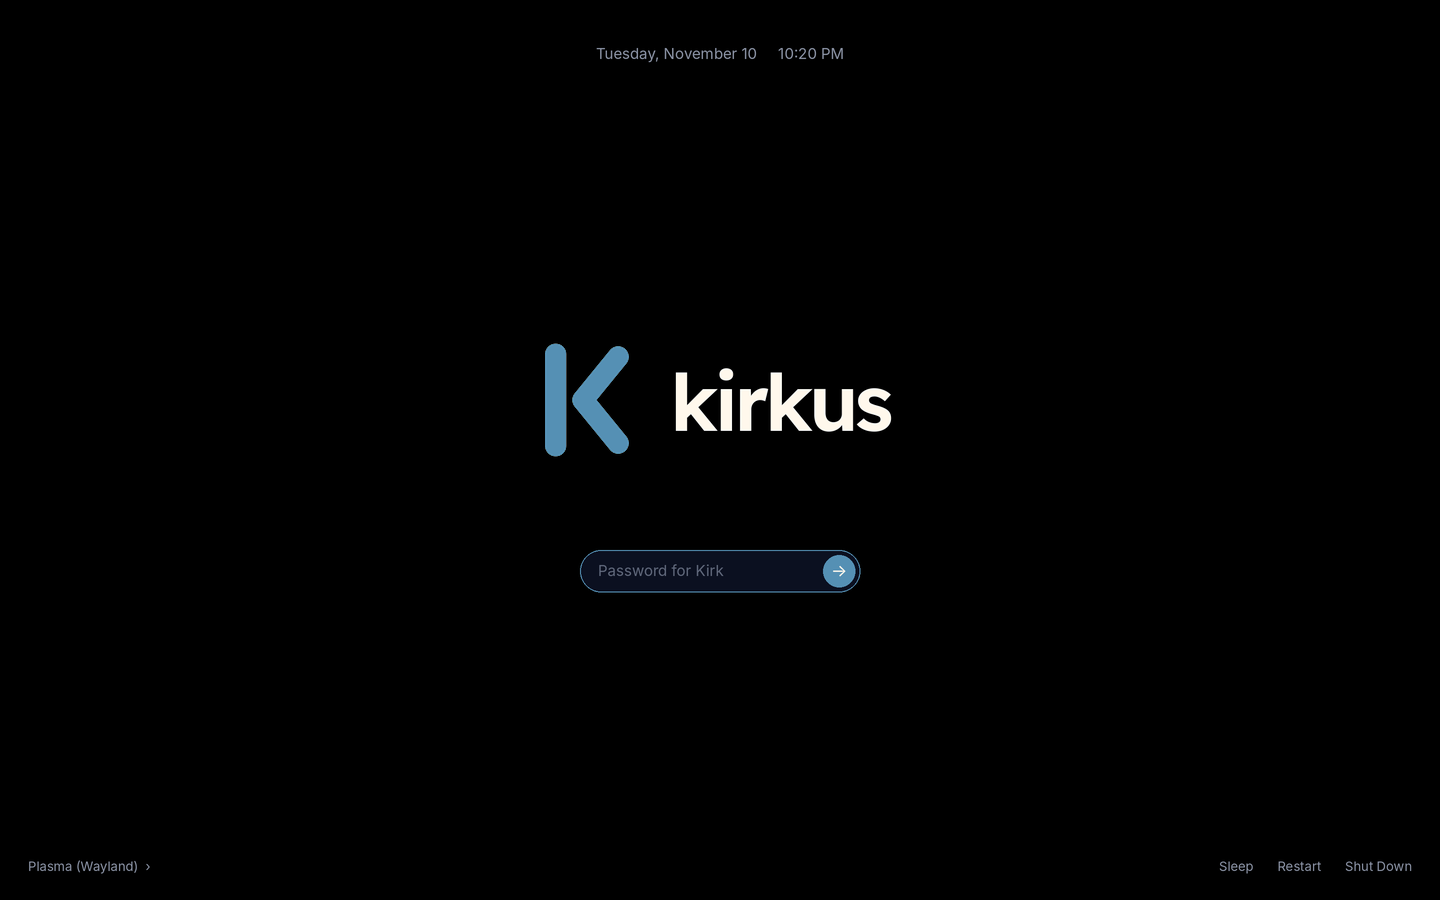
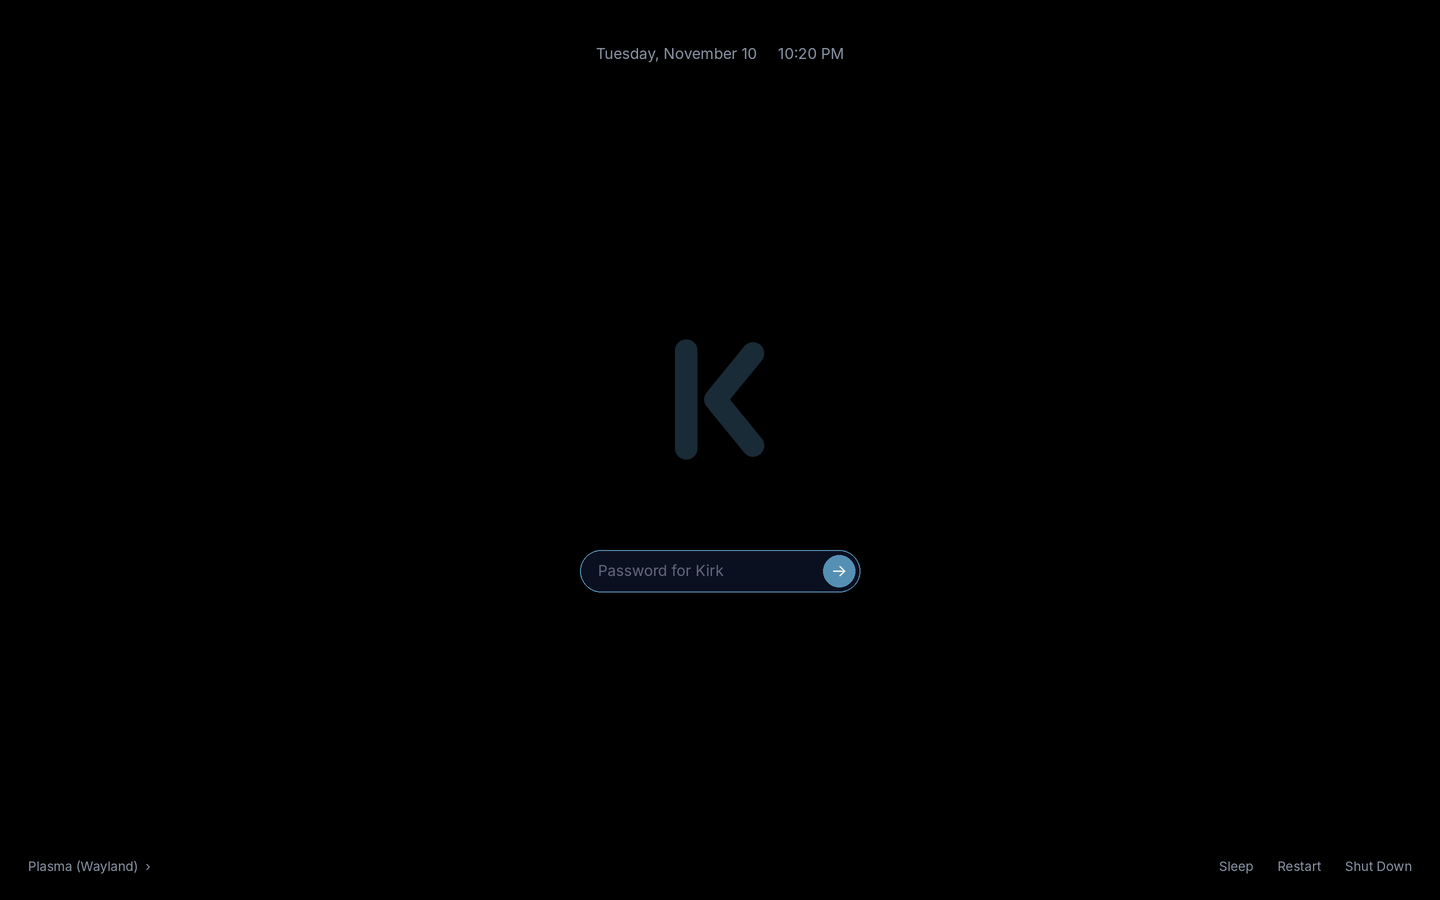
Separate the K and the wordmark across the startup screens
GRUB shows the K, the boot splash fades in the word, the login screen shows
the K faded, and the Plasma splash brightens that same K to full.

Claude-Session: https://claude.ai/code/session_01L5eKN7UTBKTLGMDgDJHDBu

Changed region(s): [[0.4688, 0.3733, 0.625, 0.5289], [0.375, 0.3733, 0.4375, 0.5289]]

diff --git a/overlay/installed/usr/share/sddm/themes/kirkus/Main.qml b/overlay/installed/usr/share/sddm/themes/kirkus/Main.qml
@@ -1,8 +1,9 @@
 // kirkus login screen for SDDM (Qt 6).
 //
-// The kirkus lockup is drawn with exactly the same arithmetic as the Plymouth boot splash, the GRUB
-// menu background and the Plasma startup splash, so from power-on to desktop it never moves. Under
-// it, the password field, which carries your name. Clock at the top, session, user and power
+// The kirkus K, faded so it doesn't compete with the password field, drawn with exactly the same
+// arithmetic as the GRUB background and the Plasma startup splash. When you log in, the splash
+// starts from this same faded K and brightens it. Under it, the password field, which carries your
+// name. Clock at the top, session, user and power
 // controls along the bottom, so nothing competes with the centre. Colours are the brand palette:
 // navy #0b1020, blue #5590b4, cream #fff8ec, slate #aeb6c8.
 import QtQuick
@@ -102,15 +103,16 @@ Rectangle {
         font.pixelSize: 15
     }
 
-    // ---- the lockup: identical to the boot splash ----
+    // ---- the K, faded (the Plasma splash starts from this same opacity) ----
     Image {
         id: lockup
-        source: "lockup.png"
+        source: "mark.png"
+        opacity: 0.3
         x: Math.floor(root.width / 2 - implicitWidth / 2)
         y: Math.floor(root.height / 2 - implicitHeight / 2) - 50
     }
 
-    // ---- login form, under the lockup ----
+    // ---- login form, under the K ----
     Column {
         id: form
         anchors.horizontalCenter: parent.horizontalCenter

diff --git a/overlay/installed/usr/share/plasma/look-and-feel/org.kirkus.splash/contents/splash/Splash.qml b/overlay/installed/usr/share/plasma/look-and-feel/org.kirkus.splash/contents/splash/Splash.qml
@@ -1,8 +1,7 @@
 // kirkus startup splash (shown after login while Plasma loads).
 //
-// Same as the boot splash: the kirkus lockup at exactly the spot every other screen draws it, so when
-// you log in the password field simply disappears, and the K's chevron pulses until the desktop
-// arrives.
+// The kirkus K, in exactly the spot and at exactly the size the login screen draws it. It starts at
+// the login screen's faded opacity and brightens to full, so logging in looks like the K lighting up.
 import QtQuick
 
 Rectangle {
@@ -13,22 +12,15 @@ Rectangle {
     property int stage
 
     Image {
-        id: lockup
-        source: "images/lockup-base.png"
+        source: "images/mark.png"
         x: Math.floor(root.width / 2 - implicitWidth / 2)
         y: Math.floor(root.height / 2 - implicitHeight / 2) - 50
-    }
+        opacity: 0.3                      // the login screen's opacity
 
-    // the chevron is its own layer, the same size and position as the lockup
-    Image {
-        source: "images/accent.png"
-        x: lockup.x
-        y: lockup.y
-
-        SequentialAnimation on opacity {
-            loops: Animation.Infinite
-            NumberAnimation { to: 0.65; duration: 1250; easing.type: Easing.InOutSine }
-            NumberAnimation { to: 1.0; duration: 1250; easing.type: Easing.InOutSine }
+        NumberAnimation on opacity {
+            from: 0.3; to: 1.0
+            duration: 1200
+            easing.type: Easing.InOutSine
         }
     }
 }

diff --git a/branding/tools/make-lockup.py b/branding/tools/make-lockup.py
@@ -11,6 +11,10 @@ writes to BRANDING_DIR/build (or --out):
   screen-lockup.png, screen-lockup-base.png,           132px tall, what every screen draws
   screen-accent.png                                    (the accent layer is the same size as the
                                                        lockup, so it lines up when drawn on top)
+  screen-mark.png                                      the K on its own (GRUB, login, Plasma splash)
+  screen-wordmark.png                                  "kirkus" on its own (boot splash, live USB)
+Every screen draws its image centred at x = W/2, y = H/2 - 50, and these have even sizes, so the
+K on the login screen and on the Plasma splash land on exactly the same pixels.
 
 --weight     for variable fonts (default 680)
 --track      letter spacing in em, negative is tighter (default -0.04)
@@ -39,12 +43,14 @@ H, SCREEN_H = 308, 132                     # 308 * 3/7 = 132
 
 # ---- the mark's two layers, each rendered on its own at full size ----
 svg = open(os.path.join(b, "mark.svg")).read()
-def layer(keep):
-    hide = "accent" if keep == "base" else "base"
-    body = re.sub(r'(<g id="%s")' % hide, r'\1 display="none"', svg)
+def layer(keep, height=None):
+    hide = {"base": ["accent"], "accent": ["base"], "both": []}[keep]
+    body = svg
+    for g in hide:
+        body = re.sub(r'(<g id="%s")' % g, r'\1 display="none"', body)
     with tempfile.TemporaryDirectory() as t:
         p = os.path.join(t, "m.svg"); open(p, "w").write(body)
-        subprocess.run(["rsvg-convert", "-h", str(H), p, "-o", p + ".png"], check=True)
+        subprocess.run(["rsvg-convert", "-h", str(height or H), p, "-o", p + ".png"], check=True)
         return Image.open(p + ".png").convert("RGBA")
 base, accent = layer("base"), layer("accent")
 mark = base.copy(); mark.alpha_composite(accent)
@@ -122,3 +128,28 @@ shrink(full).save(os.path.join(out, "screen-lockup.png"))
 shrink(still).save(os.path.join(out, "screen-lockup-base.png"))
 shrink(canvas(with_base=False, with_word=False)).save(os.path.join(out, "screen-accent.png"))
 print(f"lockup {W}x{H}, screen {sw}x{SCREEN_H}, word {tw}x{th} at ({GAP_X},{top})")
+
+# ---- the K and the word on their own, at screen size ----
+def tidy(im, margin=4):
+    """crop to the ink plus a margin, then pad to even width and height"""
+    al = np.array(im)[..., 3]
+    ys, xs = np.nonzero(al > 0)
+    im = im.crop((xs.min() - margin, ys.min() - margin, xs.max() + 1 + margin, ys.max() + 1 + margin))
+    w, h = im.width + im.width % 2, im.height + im.height % 2
+    out_im = Image.new("RGBA", (w, h)); out_im.alpha_composite(im, (0, 0)); return out_im
+
+MARK_INK = 120                              # the K's height on screen, px
+svg_ink = 256 / 300                         # the K's ink is 256 of mark.svg's 300 units
+k = tidy(layer("both", round(MARK_INK / svg_ink)))
+k.save(os.path.join(out, "screen-mark.png"))
+
+WORD_INK = 64                               # the word's height on screen, ascender to baseline
+probe = ink(200 * S)
+c = ink(200 * S * WORD_INK * S / probe.shape[0])
+ww, wh = (c.shape[1] + S - 1) // S, (c.shape[0] + S - 1) // S
+pad = np.zeros((wh * S, ww * S), np.uint8); pad[:c.shape[0], :c.shape[1]] = c
+cov = pad.reshape(wh, S, ww, S).mean(axis=(1, 3)).round().astype(np.uint8)
+wl = Image.new("RGBA", (ww + 8, wh + 8), CREAM + (0,))
+al = Image.new("L", (ww + 8, wh + 8)); al.paste(Image.fromarray(cov), (4, 4)); wl.putalpha(al)
+tidy(wl).save(os.path.join(out, "screen-wordmark.png"))
+print(f"mark {k.width}x{k.height}, wordmark {tidy(wl).width}x{tidy(wl).height}")

diff --git a/overlay/airootfs/usr/share/kirkus/live/launcher.py b/overlay/airootfs/usr/share/kirkus/live/launcher.py
@@ -58,7 +58,7 @@ class Launcher:
         page = tk.Frame(root, bg=BG)
         page.place(relx=0.5, rely=0.47, anchor="center")
 
-        self.logo = tk.PhotoImage(file=os.path.join(HERE, "lockup.png"))
+        self.logo = tk.PhotoImage(file=os.path.join(HERE, "wordmark.png"))
         tk.Label(page, image=self.logo, bg=BG).pack()
         tk.Label(page, text=f"LIVE USB  {version()}".strip(), bg=BG, fg=SLATE,
                  font=(FONT, int(9 * k))).pack(pady=(int(10 * k), int(44 * k)))

diff --git a/README.md b/README.md
@@ -246,8 +246,8 @@ so keep that rule when editing them.
 
 ## Boot splash
 
-A Plymouth theme, `kirkus`, shows the logo on black while the system starts, with the K's
-chevron gently pulsing. Files: `/usr/share/plymouth/themes/kirkus/`.
+A Plymouth theme, `kirkus`, shows the word "kirkus" fading in on black while the system
+starts. Files: `/usr/share/plymouth/themes/kirkus/`.
 
 - **See boot messages:** press Esc while the splash is up.
 - **Change it:** edit `kirkus.script`, then `sudo plymouth-set-default-theme -R kirkus`.
